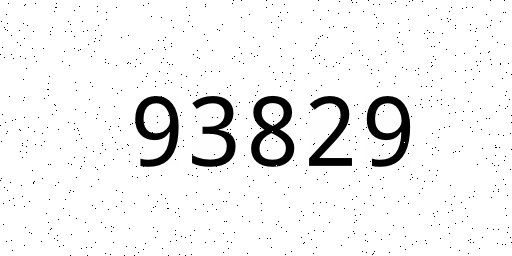
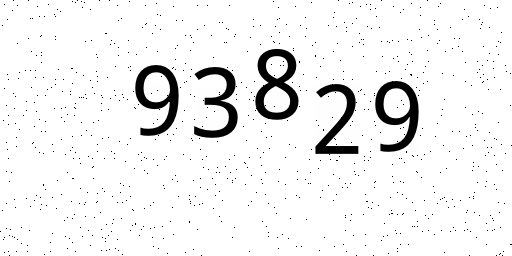
add: result

Changed region(s): [[0.25, 0.1875, 0.8438, 0.6562]]

diff --git a/sample.js b/sample.js
@@ -1,0 +1,7 @@
+// const { arrayBuffer } = require("stream/consumers")
+const captcha = require("./pkg")
+const fs = require("fs")
+
+const img = captcha.generate_image("93919")
+console.log(img);
+fs.writeFileSync("c.png", Buffer.from(img.buffer))

diff --git a/src/lib.rs b/src/lib.rs
@@ -1,7 +1,8 @@
-use image::{ImageBuffer, Rgb};
+use image::{ImageBuffer, Rgb, ImageEncoder};
 use imageproc::drawing::draw_text_mut;
 use rusttype::{Font, Scale};
 use wasm_bindgen::prelude::*;
+use rand::Rng;
 
 fn generate(text: String) -> ImageBuffer<Rgb<u8>, Vec<u8>> {
     let mut img = ImageBuffer::from_pixel(512, 256, Rgb::<u8>([255, 255, 255]));
@@ -13,7 +14,14 @@ fn generate(text: String) -> ImageBuffer<Rgb<u8>, Vec<u8>> {
         x: font_size as f32,
         y: font_size as f32,
     };
-    draw_text_mut(&mut img, color, 128, 64, scale, &font, &text);
+    let mut last_x = 128;
+    let mut rng = rand::thread_rng();
+    for c in text.chars() {
+        let y = rng.gen_range(1..63);
+        draw_text_mut(&mut img, color, last_x, y, scale, &font, &c.to_string());
+        last_x += 60;
+    }
+    // draw_text_mut(&mut img, color, 128, 64, scale, &font, &text);
     // Add some noise
     for _ in 0..1000 {
         let x = rand::random::<u32>() % 512;
@@ -35,7 +43,10 @@ fn generate(text: String) -> ImageBuffer<Rgb<u8>, Vec<u8>> {
 #[wasm_bindgen]
 pub fn generate_image(text: String) -> Vec<u8> {
     let img = generate(text);
-    img.to_vec()
+    let mut png_data = Vec::new();
+    let encoder = image::codecs::png::PngEncoder::new(&mut png_data);
+    encoder.write_image(&img, 512, 256, image::ColorType::Rgb8).unwrap();
+    png_data
 }
 
 pub fn add(left: usize, right: usize) -> usize {
